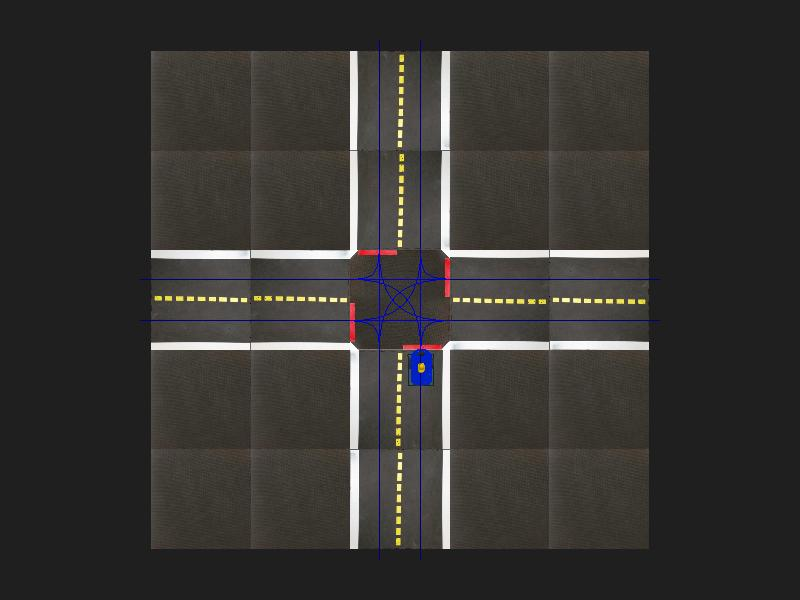
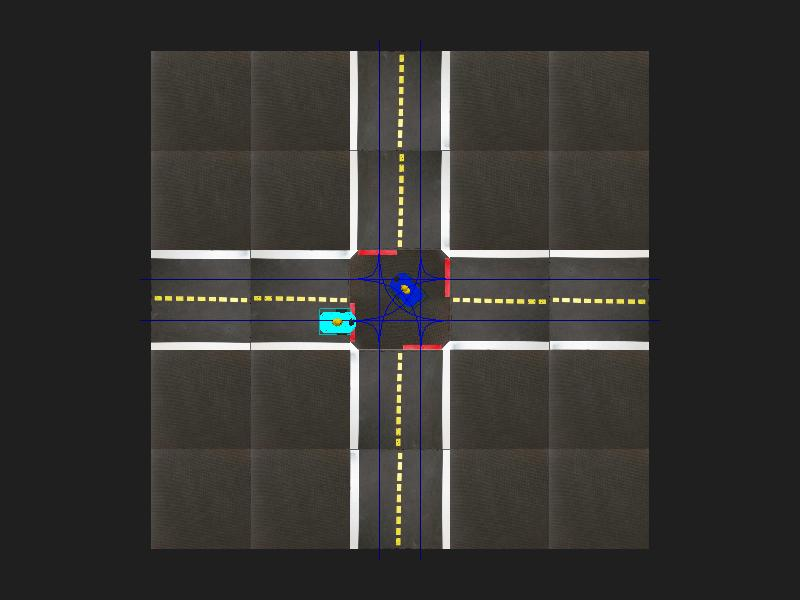
static arrays no dynamic mem

Changed region(s): [[0.5, 0.57, 0.5625, 0.66], [0.375, 0.51, 0.4688, 0.57], [0.4688, 0.45, 0.5312, 0.54]]

diff --git a/src/gym_duckietown/dl_utils.py b/src/gym_duckietown/dl_utils.py
@@ -56,56 +56,82 @@ class EnvironmentAgent(Structure):
                 ('intersection_arrival', c_int),
                 ('patience', c_int),
                 ('step_count', c_int),
-                ('state', AgentState)]
+                ('state', AgentState),
+                ('exists', c_bool)]
 
 
 class EnvironmentAgentArray(Structure):
-    _fields_ = [('elements', c_int),
-                ('ENV_AGENT_ARRAY', POINTER(EnvironmentAgent))]
+    _fields_ = [('num_agents', c_int),
+                ('agents_array', POINTER(EnvironmentAgent))]
 
 
     def __init__(self, env, agents):
-        num_intersection_agents = int(len(agents))
-        elems = (EnvironmentAgent * num_intersection_agents)() # Size
-        self.ENV_AGENT_ARRAY = cast(elems, POINTER(EnvironmentAgent))
-        self.elements = c_int(num_intersection_agents)
+        elems = (EnvironmentAgent * env.max_agents)() # Size
+        self.agents_array = cast(elems, POINTER(EnvironmentAgent))
+        self.num_agents = c_int(len(env.agents))
 
-        for i, agent in enumerate(agents):
-            self.ENV_AGENT_ARRAY[i].id = c_int(agent.index)
-            self.ENV_AGENT_ARRAY[i].pos_x = c_float(agent.cur_pos[0])
-            self.ENV_AGENT_ARRAY[i].pos_z = c_float(agent.cur_pos[2])
+        for i in range(env.max_agents):
+            if i < len(env.agents):
+                agent = env.agents[i]
+                self.agents_array[i].id = c_int(agent.index)
+                self.agents_array[i].pos_x = c_float(agent.cur_pos[0])
+                self.agents_array[i].pos_z = c_float(agent.cur_pos[2])
 
-            self.ENV_AGENT_ARRAY[i].prev_pos_x = c_float(agent.prev_pos[0])
-            self.ENV_AGENT_ARRAY[i].prev_pos_z = c_float(agent.prev_pos[2])
+                self.agents_array[i].prev_pos_x = c_float(agent.prev_pos[0])
+                self.agents_array[i].prev_pos_z = c_float(agent.prev_pos[2])
 
-            stop_x, stop_z = agent.get_stop_pos(env)
-            self.ENV_AGENT_ARRAY[i].stop_x = c_float(stop_x)
-            self.ENV_AGENT_ARRAY[i].stop_z = c_float(stop_z)
+                stop_x, stop_z = agent.get_stop_pos(env)
+                self.agents_array[i].stop_x = c_float(stop_x)
+                self.agents_array[i].stop_z = c_float(stop_z)
 
-            tile_x, tile_z = list(env.get_grid_coords(agent.cur_pos))
-            self.ENV_AGENT_ARRAY[i].tile_x = c_int(tile_x)
-            self.ENV_AGENT_ARRAY[i].tile_z = c_int(tile_z)
+                tile_x, tile_z = list(env.get_grid_coords(agent.cur_pos))
+                self.agents_array[i].tile_x = c_int(tile_x)
+                self.agents_array[i].tile_z = c_int(tile_z)
 
-            self.ENV_AGENT_ARRAY[i].angle = c_float(agent.cur_angle)
-            self.ENV_AGENT_ARRAY[i].speed = c_float(agent.speed)
-            self.ENV_AGENT_ARRAY[i].forward_step = c_float(agent.forward_step)
-            self.ENV_AGENT_ARRAY[i].direction = get_dl_direction(agent.direction)
-            self.ENV_AGENT_ARRAY[i].intersection_arrival = c_int(agent.intersection_arrival) if agent.intersection_arrival else c_int(env.max_steps)
-            self.ENV_AGENT_ARRAY[i].patience = c_int(agent.patience)
-            self.ENV_AGENT_ARRAY[i].step_count = c_int(agent.step_count)
+                self.agents_array[i].angle = c_float(agent.cur_angle)
+                self.agents_array[i].speed = c_float(agent.speed)
+                self.agents_array[i].forward_step = c_float(agent.forward_step)
+                self.agents_array[i].direction = get_dl_direction(agent.direction)
+                self.agents_array[i].intersection_arrival = c_int(agent.intersection_arrival) if agent.intersection_arrival else c_int(env.max_steps)
+                self.agents_array[i].patience = c_int(agent.patience)
+                self.agents_array[i].step_count = c_int(agent.step_count)
 
-            self.ENV_AGENT_ARRAY[i].state = AgentState(agent.states['in_intersection'],
-                                                    agent.states['at_intersection_entry'],
-                                                    agent.states['intersection_empty'],
-                                                    agent.states['approaching_intersection'],
-                                                    agent.states['obj_in_range'],
-                                                    agent.states['has_right_of_way'],
-                                                    agent.states['cars_waiting_to_enter'],
-                                                    agent.states['car_entering_range'],
-                                                    agent.states['obj_behind_intersection'],
-                                                    agent.states['is_tailgating'],
-                                                    agent.next_to_go(env))
+                self.agents_array[i].state = AgentState(agent.states['in_intersection'],
+                                                        agent.states['at_intersection_entry'],
+                                                        agent.states['intersection_empty'],
+                                                        agent.states['approaching_intersection'],
+                                                        agent.states['obj_in_range'],
+                                                        agent.states['has_right_of_way'],
+                                                        agent.states['cars_waiting_to_enter'],
+                                                        agent.states['car_entering_range'],
+                                                        agent.states['obj_behind_intersection'],
+                                                        agent.states['is_tailgating'],
+                                                        agent.next_to_go(env))
+                self.agents_array[i].exists = c_bool(True)
+            else:
+                self.agents_array[i].id = c_int(-1)
+                self.agents_array[i].pos_x = c_float(-1.0)
+                self.agents_array[i].pos_z = c_float(-1.0)
 
+                self.agents_array[i].prev_pos_x = c_float(-1.0)
+                self.agents_array[i].prev_pos_z = c_float(-1.0)
+
+                self.agents_array[i].stop_x = c_float(-1.0)
+                self.agents_array[i].stop_z = c_float(-1.0)
+
+                self.agents_array[i].tile_x = c_int(-1)
+                self.agents_array[i].tile_z = c_int(-1)
+
+                self.agents_array[i].angle = c_float(0.0)
+                self.agents_array[i].speed = c_float(0.0)
+                self.agents_array[i].forward_step = c_float(0.0)
+                self.agents_array[i].direction = Direction.NORTH
+                self.agents_array[i].intersection_arrival = c_int(-1)
+                self.agents_array[i].patience = c_int(-1)
+                self.agents_array[i].step_count = c_int(-1)
+
+                self.agents_array[i].state = AgentState(0, 0, 0, 0, 0, 0, 0, 0, 0, 0, 0)
+                self.agents_array[i].exists = c_bool(False)
 
 class EnvironmentInfo(Structure):
     _fields_ = [('intersection_x', c_int),

diff --git a/src/gym_duckietown/decision_logic/decision_logic.c b/src/gym_duckietown/decision_logic/decision_logic.c
@@ -82,12 +82,12 @@ IntersectionAction *intersection_action(TurnChoice old_turn_choice, TurnChoice o
     Action action = STOP;
 
     // Check if we want to wait first
-    int num_near_intersection = env_agent_array_struct->elements;
+    int num_near_intersection = env_agent_array_struct->num_agents;
 
     int wait_step = 0;
 
     for (int i = 0; i < num_near_intersection; i++) {
-        if (intersection_arrival > env_agent_array_struct->ENV_AGENT_ARRAY[i].intersection_arrival) {
+        if (intersection_arrival > env_agent_array_struct->agents_array[i].intersection_arrival) {
             //wait_step += intersection_arrival - env_agent_array_struct->ENV_AGENT_ARRAY[i].intersection_arrival;
             wait_step +=25 ;
         }
@@ -278,7 +278,7 @@ bool has_right_of_way(  bool in_intersection,
 
 // Good agent proceed: 0=stop 1=proceed
 bool proceed_good_agent(EnvironmentInfo* env_info, int agent_index){
-    EnvironmentAgent agent = env_info->agents.ENV_AGENT_ARRAY[agent_index];
+    EnvironmentAgent agent = env_info->agents.agents_array[agent_index];
     if (agent.state.is_tailgating) 
         return false;
     if (agent.state.has_right_of_way) 
@@ -293,7 +293,7 @@ bool proceed_good_agent(EnvironmentInfo* env_info, int agent_index){
 
 // Handle patience return 0=do nothing 1=inc 2=reset
 int handle_patience(EnvironmentInfo* env_info, int agent_index){
-    EnvironmentAgent agent = env_info->agents.ENV_AGENT_ARRAY[agent_index];
+    EnvironmentAgent agent = env_info->agents.agents_array[agent_index];
     if (!agent.state.has_right_of_way && agent.state.next_to_go && agent.state.intersection_empty)
         return 1;
     if (!agent.state.has_right_of_way && agent.state.next_to_go && !agent.state.intersection_empty)
@@ -319,14 +319,14 @@ void print_all(EnvironmentInfo* env_info) {
     int grid_h = env_info->grid_h;
     float road_tile_size = env_info->road_tile_size;
     int max_steps = env_info->max_steps;
-    int num_agents = env_info->agents.elements;
+    int num_agents = env_info->agents.num_agents;
     fflush(stdout);
     printf("Environment information: \n");
     printf("Intersection: %d, %d\n", intersection_x, intersection_z);
     printf("Grid Height: %d Grid Width %d Road tile size: %f\n", grid_h, grid_w, road_tile_size);
     printf("Robot Length: %f Max Steps: %d\n",  robot_length, max_steps);
     
-    EnvironmentAgent *agents = env_info->agents.ENV_AGENT_ARRAY;
+    EnvironmentAgent *agents = env_info->agents.num_agents;
     for (int i = 0; i < num_agents; i++) {
         printf("Agent %d information \n", agents[i].id);
         printf("pos_x: %f pos_z %f \n", agents[i].pos_x, agents[i].pos_z);

diff --git a/src/gym_duckietown/simulator.py b/src/gym_duckietown/simulator.py
@@ -193,6 +193,9 @@ DEFAULT_SAFETY_FACTOR=1.0
 
 DEFAULT_NUM_AGENTS=2
 
+MAX_AGENTS=8
+
+
 LanePosition0 = namedtuple("LanePosition", "dist dot_dir angle_deg angle_rad")
 
 
@@ -251,6 +254,7 @@ class Simulator(gym.Env):
         enable_leds: bool = True,
         num_agents: int = DEFAULT_NUM_AGENTS,
         num_random_agents: int = 0,
+        max_agents: int = 0,
         verbose: bool = False 
     ):
         """
@@ -283,6 +287,7 @@ class Simulator(gym.Env):
         :param enable_leds: Enables LEDs drawing.
         :param verbose: Enables Logging.
         """
+        global MAX_AGENTS
         self.enable_leds = enable_leds
         information = get_graphics_information()
         logger.info(
@@ -427,6 +432,8 @@ class Simulator(gym.Env):
         # Set the default state to running
         self.state = "run"
         self.c_info_struct = None
+        self.max_agents = max_agents
+        MAX_AGENTS = max_agents
 
 
         # Initialize the state

diff --git a/src/gym_duckietown/utils.py b/src/gym_duckietown/utils.py
@@ -48,7 +48,6 @@ def get_file_path(sub_dir, file_name, default_ext):
 def get_args_from_config(config_name: str):
 
     params = configparser.ConfigParser()
-    print(config_name)
     params.read(config_name)
     class Args:
         # Logging 
@@ -110,6 +109,7 @@ def get_args_from_config(config_name: str):
             # Agents
             self.num_random_agents=params.getint('AGENTS', 'NUM_RANDOM_AGENTS')
             self.safety_factor=params.getfloat('AGENTS', 'SAFETY_FACTOR')
+            self.max_agents=params.getint('AGENTS', 'MAX_AGENTS')
 
             # Learning
             self.save_models=params.getboolean('LEARNING', 'SAVE_MODELS')

diff --git a/src/gym_duckietown/decision_logic/types.c b/src/gym_duckietown/decision_logic/types.c
@@ -75,11 +75,12 @@ typedef struct {
     int patience ;
     int step_count ;
     AgentState state ;
+    bool exists ;
 } EnvironmentAgent ;
 
 typedef struct {
-    int elements;
-    EnvironmentAgent* ENV_AGENT_ARRAY;
+    int num_agents;
+    EnvironmentAgent* agents_array;
 } EnvironmentAgentArray ;
 
 // Environment Info

diff --git a/learning/reinforcement/q-learning/train.py b/learning/reinforcement/q-learning/train.py
@@ -46,6 +46,7 @@ def train(args):
             camera_rand=args.camera_rand,
             dynamics_rand=args.dynamics_rand,
             num_random_agents=args.num_random_agents,
+            max_agents=args.max_agents,
             full_transparency=True,
             verbose=args.verbose
         )

diff --git a/agents/example.py b/agents/example.py
@@ -29,6 +29,7 @@ def test(args):
             camera_rand=args.camera_rand,
             dynamics_rand=args.dynamics_rand,
             num_random_agents=args.num_random_agents,
+            max_agents=args.max_agents,
             full_transparency=True,
             verbose=args.verbose
         )
